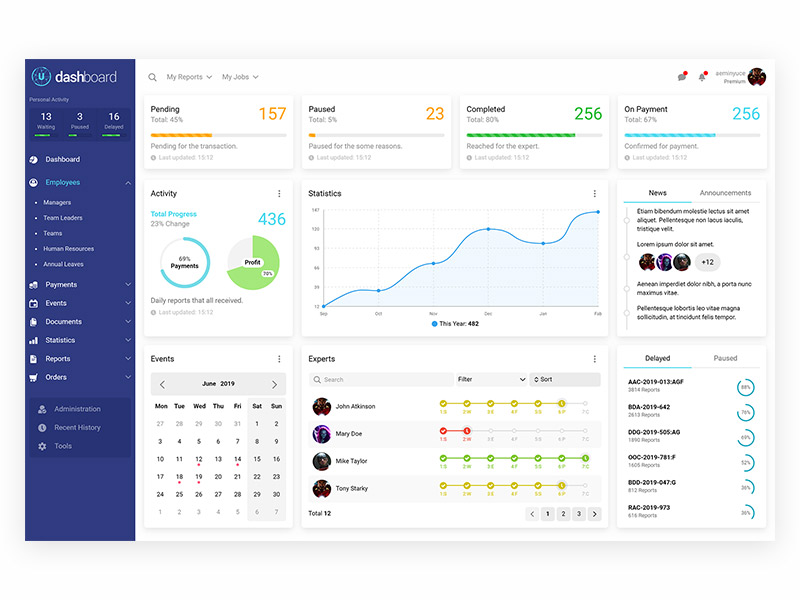
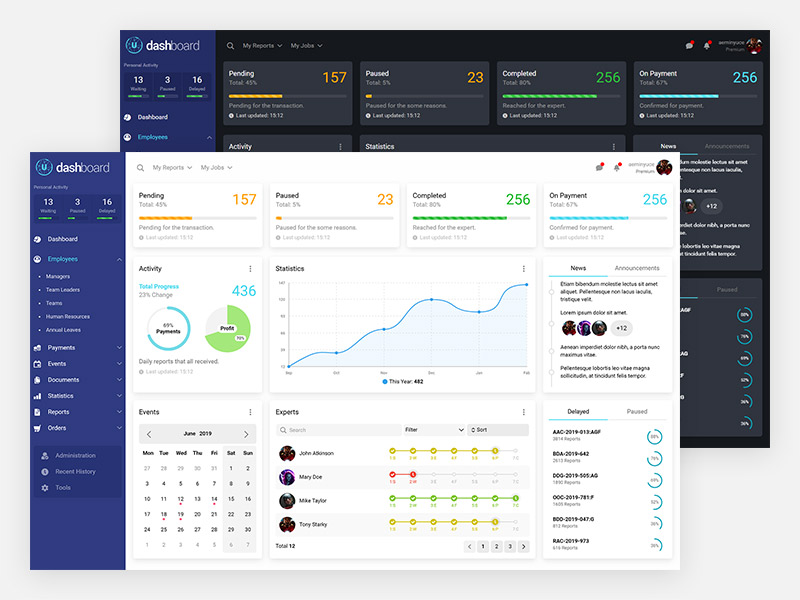
Changed dashboard page layout.

diff --git a/docs/index.html b/docs/index.html
@@ -151,7 +151,10 @@
                     <div class="row large align-center">
                         <div class="col-lg-3 col-4 col-md-6 sm-responsive">
                             <a class="portlet padding-10 rounded shadow-lg hover-shadow hover-up ease-layout" href="dashboard.html">
-                                <img class="img-responsive margin-10-b" src="img/layout-dashboard.jpg" alt="Dashboard">
+                                <picture>
+                                    <source srcset="img/layout-dashboard-dark.jpg" media="(prefers-color-scheme: dark)">
+                                    <img class="img-responsive margin-10-b" src="img/layout-dashboard.jpg" alt="Dashboard">
+                                </picture>
                                 Dashboard
                             </a>
                         </div>
